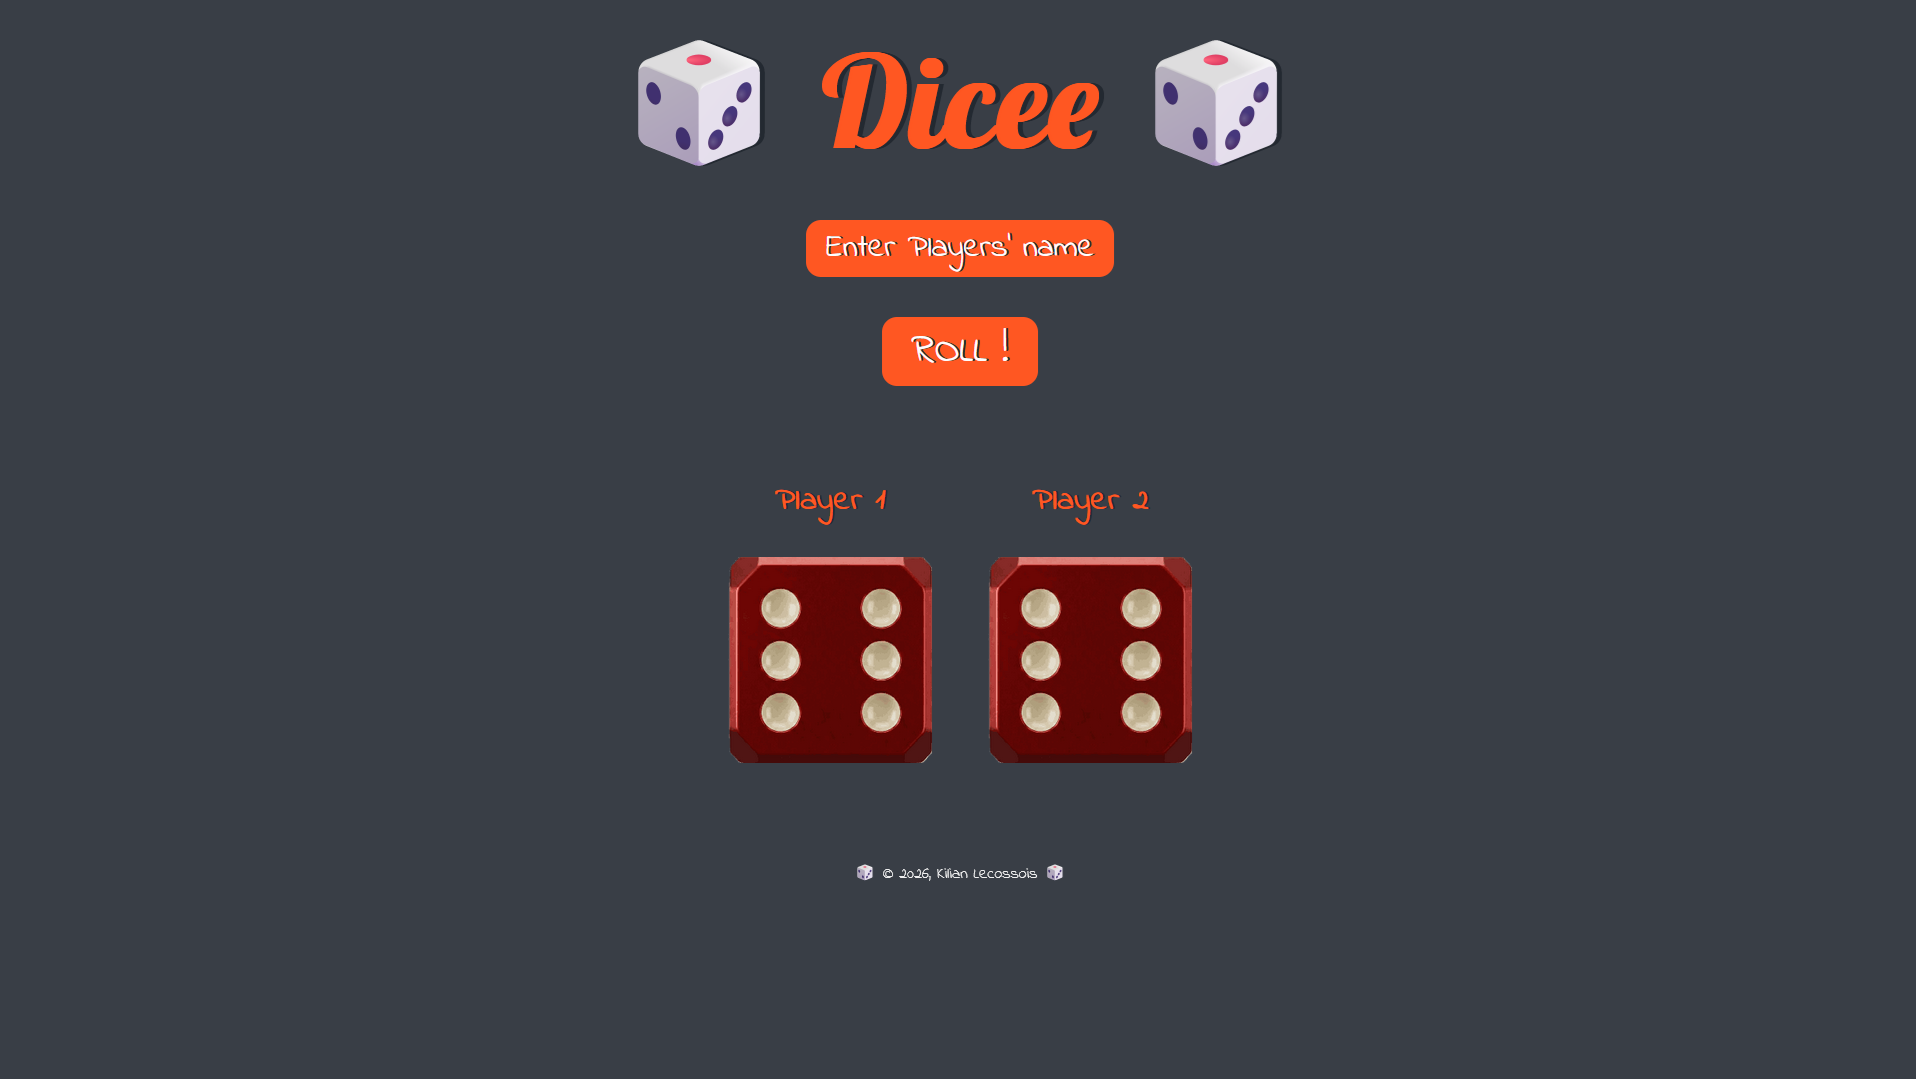
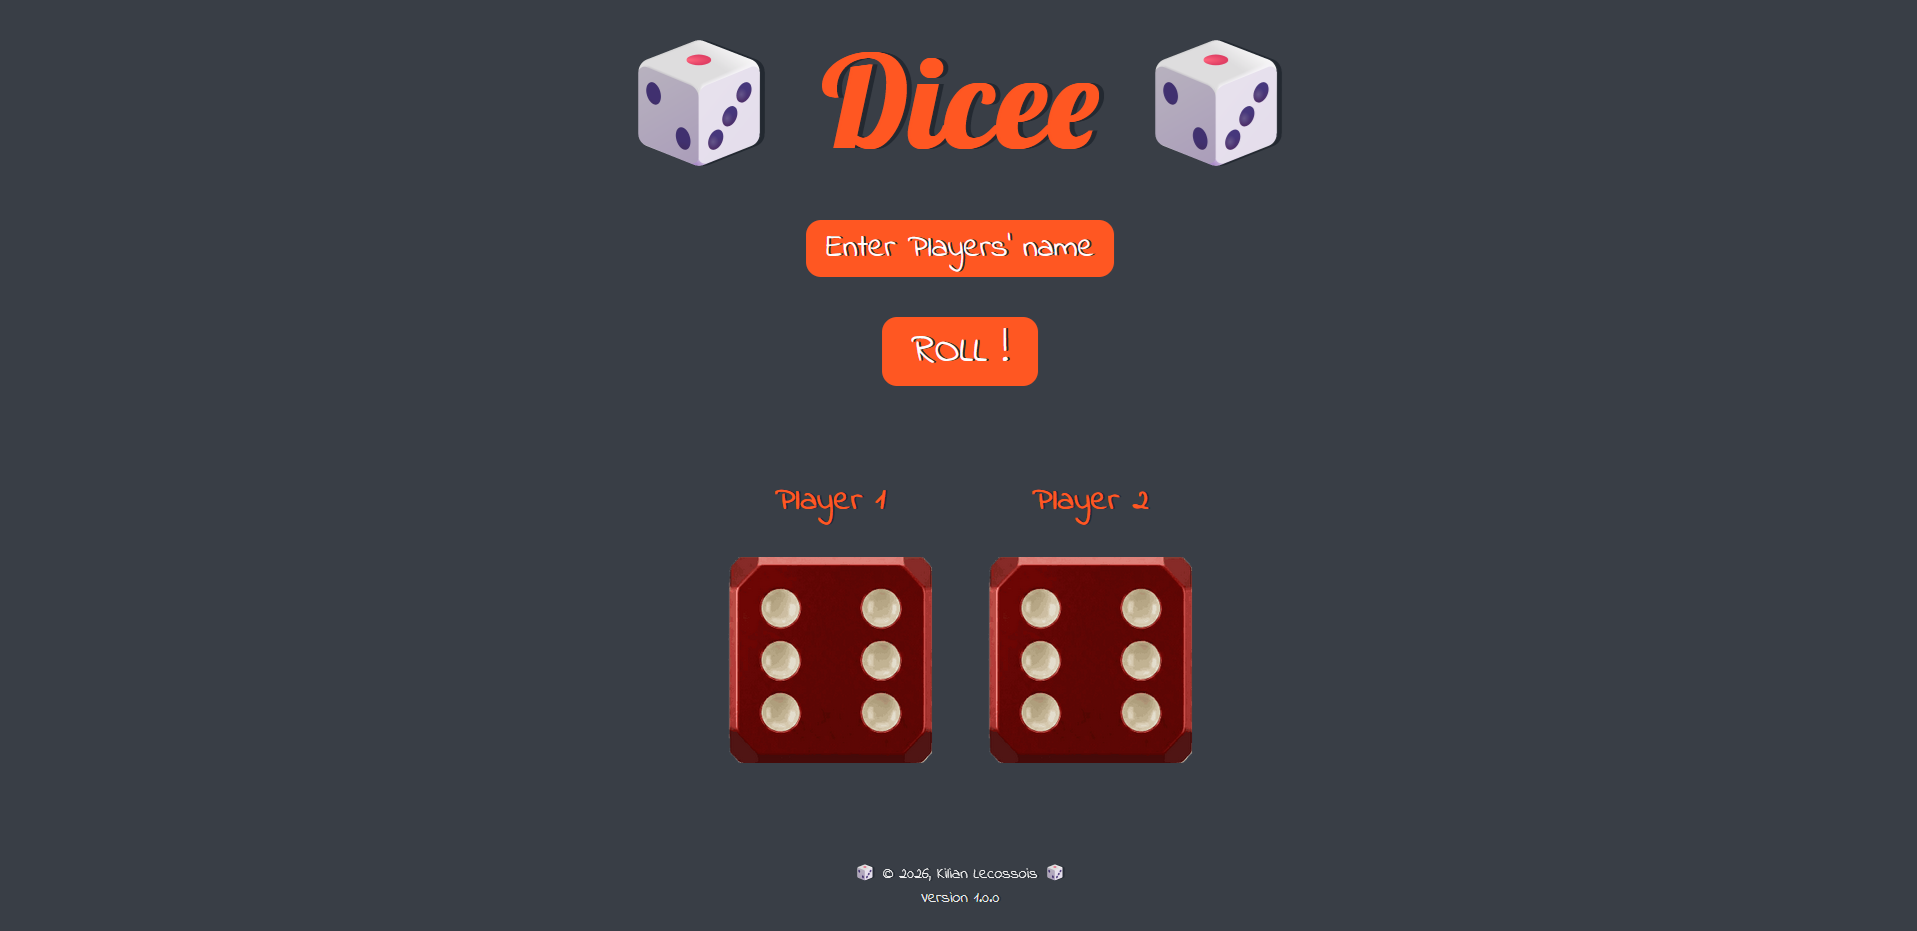
Version 1.0.1
feat(ui) : ajout du numéro de version dans le footer

diff --git a/index.html b/index.html
@@ -42,7 +42,10 @@
         <img class="img2" src="./images/dice6.png" draggable="false" alt="dice image"/>
       </div>
     </main>
-    <footer>🎲 © 2026, Kilian Lecossois 🎲</footer>
+    <footer>
+      <p>🎲 © 2026, Kilian Lecossois 🎲</p>
+      <p> Version 1.0.1</p>
+    </footer>
   </body>
 </html>
 

diff --git a/styles.css b/styles.css
@@ -141,9 +141,15 @@ img {
 
 footer {
   margin-top: 5%;
-  color: #EEEEEE;
   text-align: center;
   font-family: 'Indie Flower', cursive;
+}
+
+footer p {
+  color: #EEEEEE;
+  font-size: 1rem;
+  margin: 0;
+  font-weight: normal;
 }
 
 @media screen and (min-width : 768px) and (max-width : 1050px) {

diff --git a/CHANGELOG.md b/CHANGELOG.md
@@ -1,5 +1,10 @@
 # CHANGELOG
 
+## [v1.0.1] - 2026-04-30
+### Modifié
+- Ajout du numéro de version dans le footer
+- Modification image de preview dans README.md
+
 ## [v1.0.0] - 2026-04-30
 ### Ajouté
 - Système de saisie des noms des joueurs via une fenêtre modale
